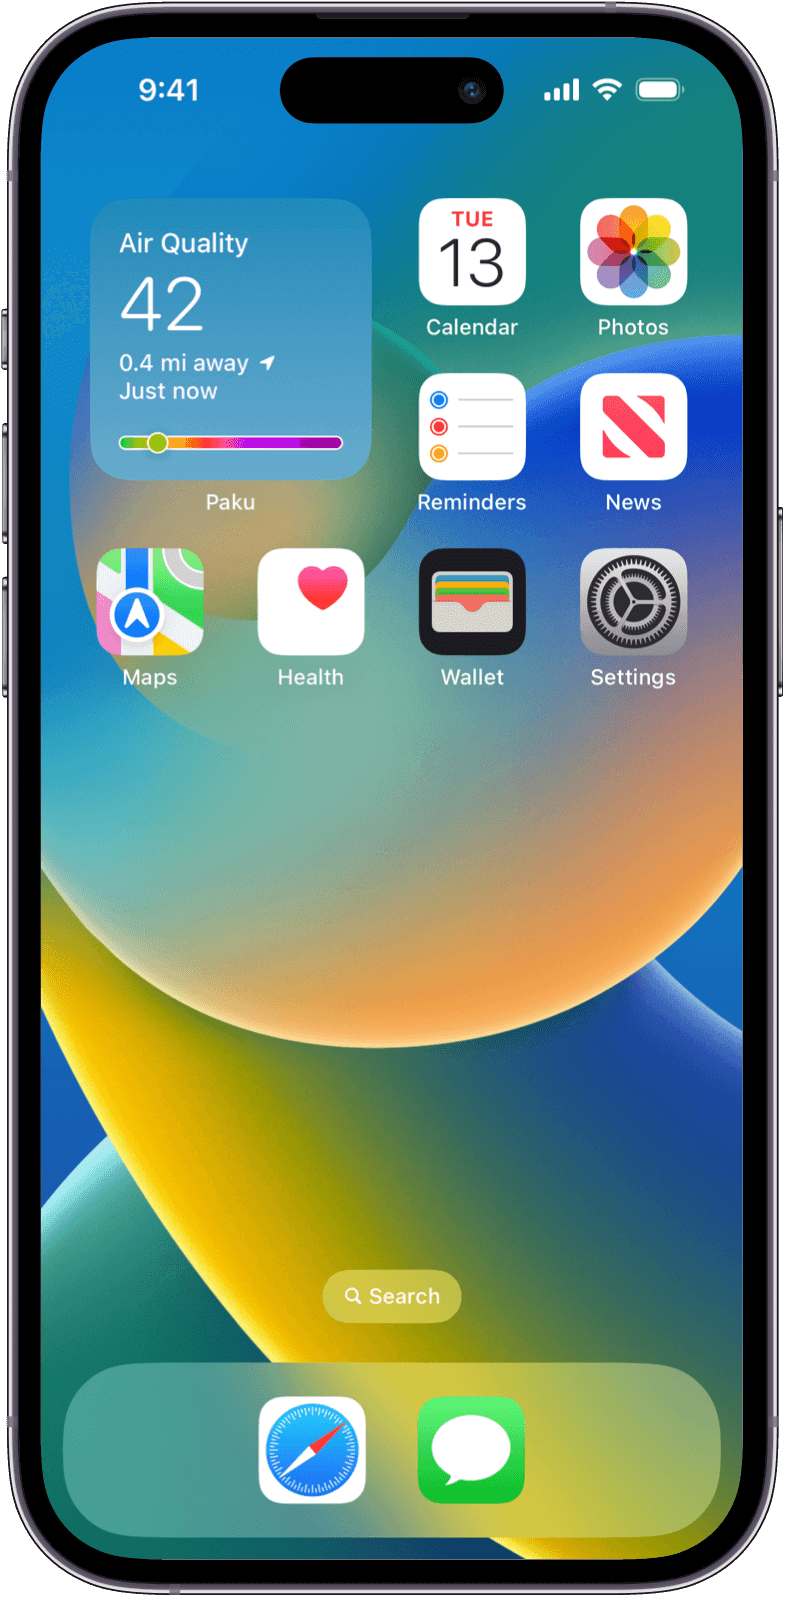
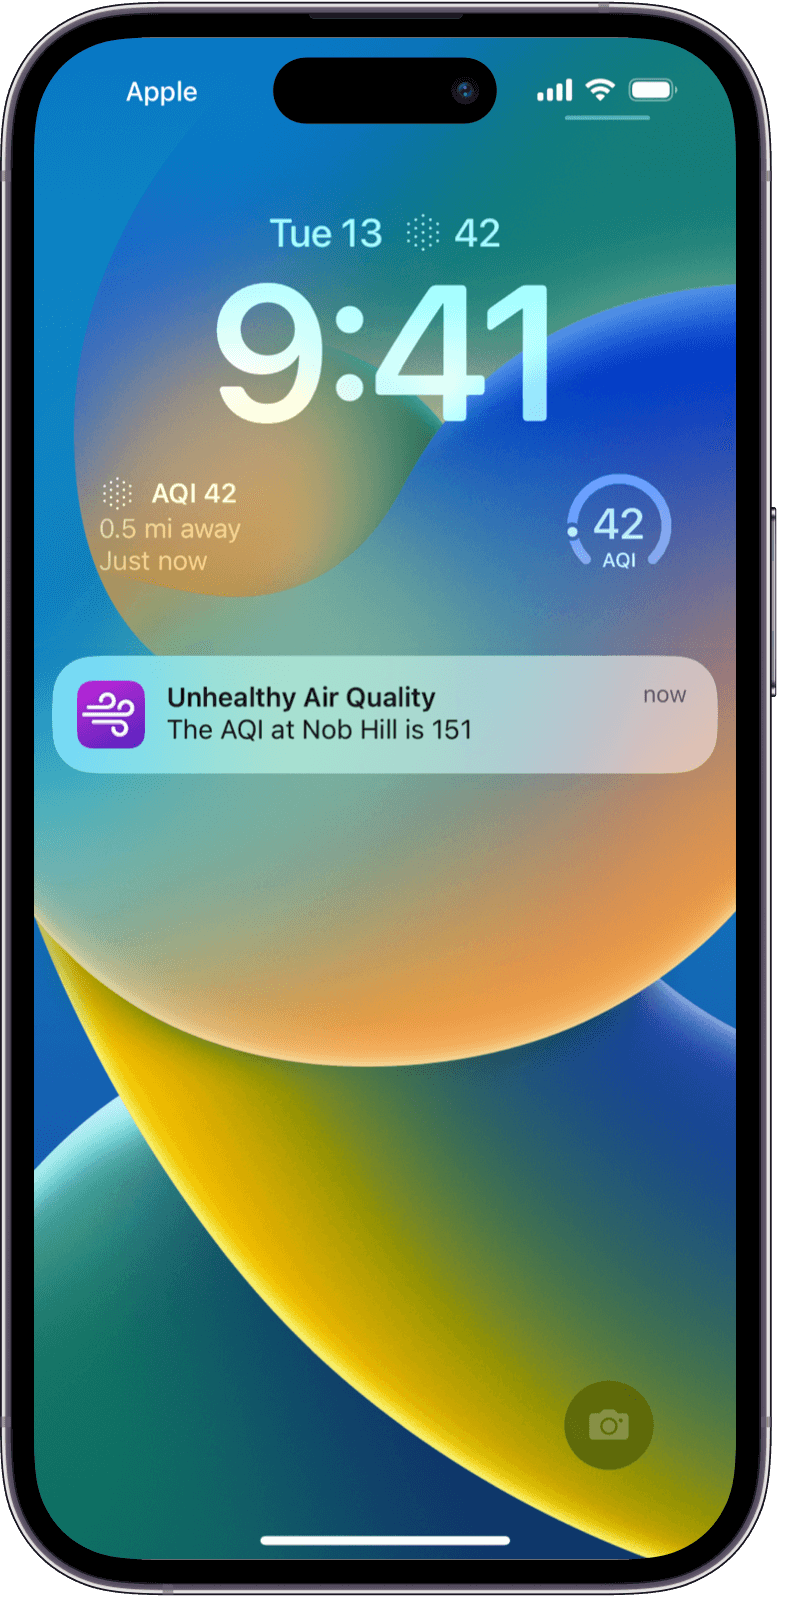
Update widget

diff --git a/index.html b/index.html
@@ -67,7 +67,7 @@
         <img class="phone" src="images/phone-map.png">
       </div>
       <div class="four columns">
-        <p class="phone-header">Keep an eye on the AQI right on your Home Screen</p>
+        <p class="phone-header">Lock Screen widgets and Push Notifications</p>
         <img class="phone" src="images/phone-widget.png">
       </div>
       <div class="four columns">
